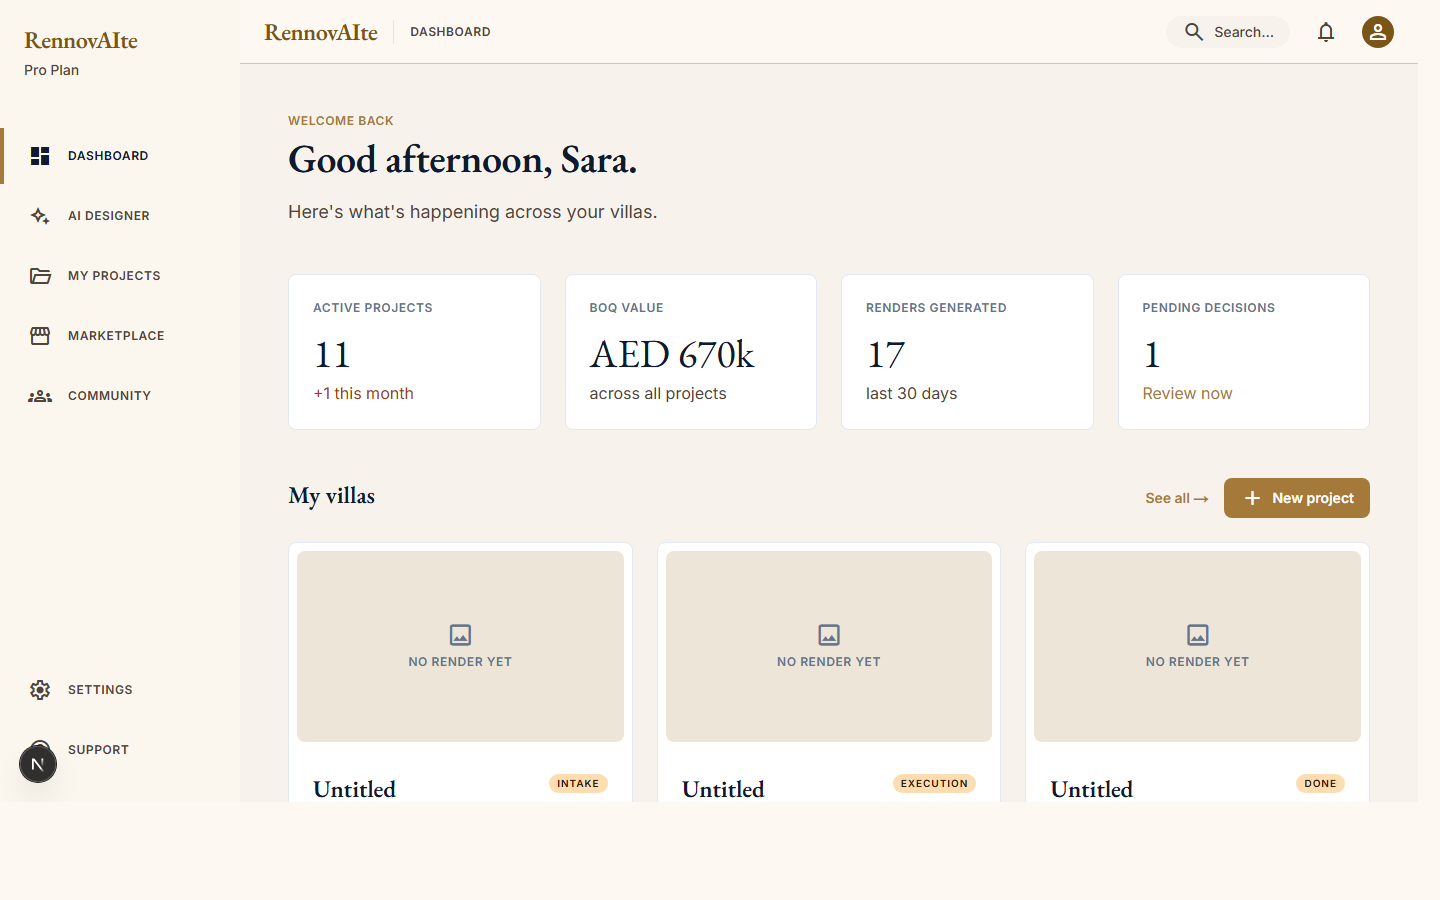
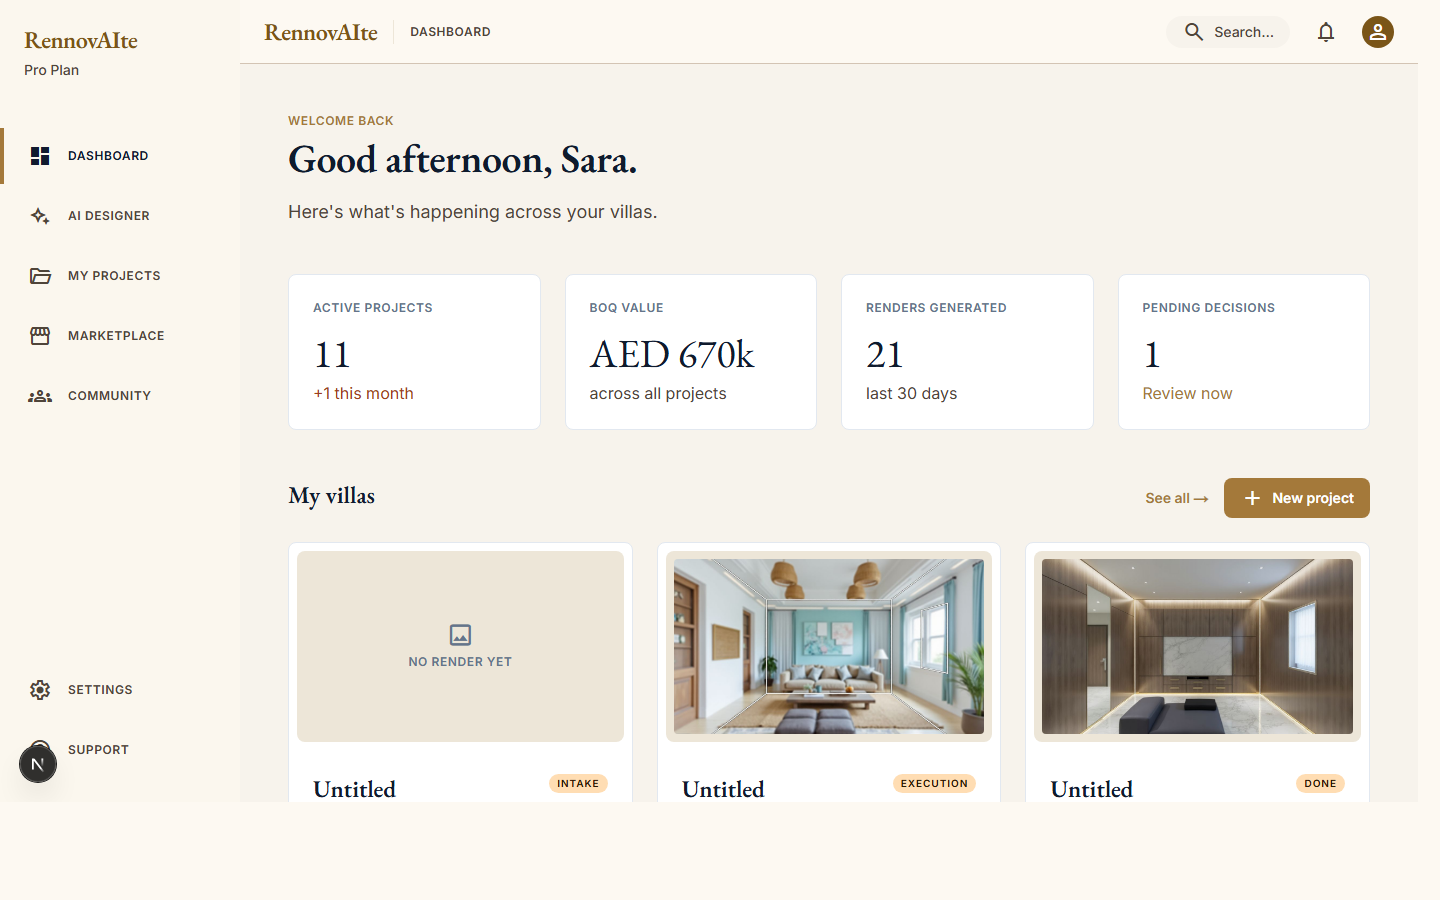
feat: backfill script for re-hosting hero renders + force-render flag
Adds scripts/backfill-renders.ts. For every project with a project-level
style pick + parsed plan + at least one renderable room, the script
triggers a fresh /api/render call so the new flow re-hosts the output
in Supabase Storage. Skips projects whose latest render is already on
Supabase Storage so it can be re-run safely.

Hero-room selection prefers living > majlis > dining > master_bedroom
> bedroom > bathroom > ensuite > powder, falling through to first valid
room. One render per project (these are dashboard / portfolio heroes,
not exhaustive).

To make the backfill possible, /api/render now accepts an optional
`force: true` body param that bypasses the prompt cache. Without it,
the cache lookup would return the existing dead Replicate URL and
never re-render.

Concurrency is pinned at 1 with a 12s inter-render pause and 429
retry-after handling — Replicate's reduced rate limit on accounts with
< $5 credit is 6 req/min with burst 1, so any concurrency > 1 hits
429 immediately.

Usage:
  pnpm tsx scripts/backfill-renders.ts            # dry run
  pnpm tsx scripts/backfill-renders.ts --run      # execute
  pnpm tsx scripts/backfill-renders.ts --run --limit 2

Ran the backfill against the dev DB — all 4 projects with a style
pick now have Supabase-Storage-hosted hero renders. /my-projects shows
three of the new renders (a warm wood-paneled lounge, a sea-glass
coastal interior, a luxe-minimal living room) in their villa cards;
[…]

Changed region(s): [[0.7188, 0.6222, 0.9375, 0.84], [0.4688, 0.6222, 0.6875, 0.84], [0.5938, 0.3733, 0.625, 0.4044]]

diff --git a/scripts/backfill-renders.ts b/scripts/backfill-renders.ts
@@ -1,0 +1,328 @@
+// Backfill script — repopulates hero renders for projects whose stored
+// `renders.image_url` is a dead Replicate presigned URL. For each project
+// that has a project-level style pick and at least one renderable room, it
+// triggers a fresh /api/render call (with `force: true` so the prompt cache
+// is bypassed). The API route re-hosts the output in Supabase Storage, so
+// the new row gets a permanent public URL.
+//
+// Usage:
+//   pnpm tsx scripts/backfill-renders.ts            # dry run, prints plan
+//   pnpm tsx scripts/backfill-renders.ts --run      # actually triggers renders
+//   pnpm tsx scripts/backfill-renders.ts --run --limit 2
+//
+// Requires the Next dev server to be running locally (the script POSTs to
+// http://localhost:3091/api/render by default — override with API_BASE).
+//
+// Renders are fired with a small concurrency limit so we don't overwhelm
+// the dev server or Replicate.
+
+import { readFile } from "node:fs/promises";
+
+import { supabaseAdmin } from "../lib/supabase-admin";
+
+const ENV_PATH = "C:/dev/rennovaite/.env.local";
+const API_BASE = process.env.API_BASE ?? "http://localhost:3091";
+// Replicate's free-tier rate limit is "6 req/min with burst 1" when account
+// credit is below $5. We run serially with a short pause between calls so
+// the bursts never collide. The script also handles 429 retry-after, so even
+// if you bump CONCURRENCY back up it should self-throttle.
+const CONCURRENCY = 1;
+const INTER_RENDER_PAUSE_MS = 12_000;
+const PER_RENDER_TIMEOUT_MS = 180_000;
+const MAX_RETRIES_ON_429 = 3;
+
+// Hero-room preference order — pick the largest "living" if one exists,
+// fall through to bedrooms/bathrooms so every candidate project at least
+// gets *some* hero image. Mirrors the renderable set in lib/render-prompts.ts.
+const HERO_ROOM_ORDER = [
+  "living",
+  "majlis",
+  "dining",
+  "master_bedroom",
+  "bedroom",
+  "bathroom",
+  "ensuite",
+  "powder",
+];
+const RENDERABLE = new Set(HERO_ROOM_ORDER);
+
+type Candidate = {
+  project_id: string;
+  project_name: string;
+  room_id: string;
+  room_type: string;
+  area_m2: number | null;
+  style_key: string;
+};
+
+async function loadEnvLocal(): Promise<void> {
+  let raw: string;
+  try {
+    raw = await readFile(ENV_PATH, "utf8");
+  } catch {
+    return;
+  }
+  for (const line of raw.split(/\r?\n/)) {
+    const trimmed = line.trim();
+    if (!trimmed || trimmed.startsWith("#")) continue;
+    const eq = trimmed.indexOf("=");
+    if (eq === -1) continue;
+    const key = trimmed.slice(0, eq).trim();
+    let value = trimmed.slice(eq + 1).trim();
+    if (
+      (value.startsWith('"') && value.endsWith('"')) ||
+      (value.startsWith("'") && value.endsWith("'"))
+    ) {
+      value = value.slice(1, -1);
+    }
+    if (!(key in process.env)) process.env[key] = value;
+  }
+}
+
+async function findCandidates(): Promise<Candidate[]> {
+  const sb = supabaseAdmin;
+
+  const { data: projects, error: projErr } = await sb
+    .from("projects")
+    .select("id, name")
+    .order("created_at", { ascending: false });
+  if (projErr) throw projErr;
+  if (!projects) return [];
+
+  const { data: styles, error: styleErr } = await sb
+    .from("style_choices")
+    .select("project_id, room_id, style_key, created_at")
+    .is("room_id", null)
+    .order("created_at", { ascending: false });
+  if (styleErr) throw styleErr;
+  const styleByProject = new Map<string, string>();
+  for (const s of styles ?? []) {
+    if (s.project_id && s.style_key && !styleByProject.has(s.project_id)) {
+      styleByProject.set(s.project_id, s.style_key);
+    }
+  }
+
+  // Skip projects whose latest render is ALREADY a Supabase Storage URL —
+  // those got re-hosted by a previous backfill run.
+  const { data: existingRenders } = await sb
+    .from("renders")
+    .select("project_id, image_url, created_at")
+    .order("created_at", { ascending: false });
+  const latestRenderByProject = new Map<string, string | null>();
+  for (const r of existingRenders ?? []) {
+    if (!r.project_id) continue;
+    if (!latestRenderByProject.has(r.project_id)) {
+      latestRenderByProject.set(r.project_id, r.image_url ?? null);
+    }
+  }
+
+  const out: Candidate[] = [];
+  for (const p of projects) {
+    const styleKey = styleByProject.get(p.id);
+    if (!styleKey) continue;
+
+    // Already has a stable Supabase URL — skip.
+    const latest = latestRenderByProject.get(p.id) ?? null;
+    if (latest && !latest.includes("replicate.delivery")) {
+      console.log(
+        `[backfill] skip ${p.id.slice(0, 8)} — already on Supabase Storage`,
+      );
+      continue;
+    }
+
+    const { data: plan } = await sb
+      .from("plans")
+      .select("id")
+      .eq("project_id", p.id)
+      .order("created_at", { ascending: false })
+      .limit(1)
+      .maybeSingle();
+    if (!plan) continue;
+
+    const { data: rooms } = await sb
+      .from("rooms")
+      .select("id, room_type, area_m2")
+      .eq("plan_id", plan.id);
+    if (!rooms?.length) continue;
+
+    const valid = rooms.filter(
+      (r) => r.room_type && RENDERABLE.has(r.room_type),
+    );
+    if (!valid.length) continue;
+
+    let hero: (typeof valid)[number] | null = null;
+    for (const rt of HERO_ROOM_ORDER) {
+      const match = valid
+        .filter((r) => r.room_type === rt)
+        .sort((a, b) => (b.area_m2 ?? 0) - (a.area_m2 ?? 0));
+      if (match[0]) {
+        hero = match[0]!;
+        break;
+      }
+    }
+    if (!hero) hero = valid[0]!;
+
+    out.push({
+      project_id: p.id,
+      project_name: p.name?.trim() || "Untitled",
+      room_id: hero.id,
+      room_type: hero.room_type!,
+      area_m2: hero.area_m2,
+      style_key: styleKey,
+    });
+  }
+  return out;
+}
+
+async function triggerRender(
+  candidate: Candidate,
+): Promise<{ ok: boolean; ms: number; image_url?: string; error?: string }> {
+  const t0 = Date.now();
+  for (let attempt = 0; attempt <= MAX_RETRIES_ON_429; attempt++) {
+    const controller = new AbortController();
+    const timeout = setTimeout(
+      () => controller.abort(),
+      PER_RENDER_TIMEOUT_MS,
+    );
+    try {
+      const res = await fetch(`${API_BASE}/api/render`, {
+        method: "POST",
+        headers: { "Content-Type": "application/json" },
+        body: JSON.stringify({
+          project_id: candidate.project_id,
+          room_id: candidate.room_id,
+          force: true,
+        }),
+        signal: controller.signal,
+      });
+      const body = (await res.json().catch(() => null)) as
+        | { image_url?: string; error?: string }
+        | null;
+      if (res.ok && body?.image_url) {
+        return { ok: true, ms: Date.now() - t0, image_url: body.image_url };
+      }
+      const errMsg = body?.error ?? `HTTP ${res.status}`;
+      // Replicate 429 surfaces as a 502 from our route with the original
+      // message embedded. Extract retry_after if present.
+      const m = errMsg.match(/retry_after"?:\s*(\d+)/);
+      const retryAfterSec = m ? Number(m[1]!) : null;
+      const is429 = errMsg.includes("429") || errMsg.includes("throttled");
+      if (is429 && attempt < MAX_RETRIES_ON_429) {
+        const wait = (retryAfterSec ?? 10) + 2;
+        console.log(
+          `[backfill]   ⟳ rate-limited; waiting ${wait}s before retry ${attempt + 1}/${MAX_RETRIES_ON_429}`,
+        );
+        await sleep(wait * 1000);
+        continue;
+      }
+      return { ok: false, ms: Date.now() - t0, error: errMsg };
+    } catch (err) {
+      return {
+        ok: false,
+        ms: Date.now() - t0,
+        error: err instanceof Error ? err.message : String(err),
+      };
+    } finally {
+      clearTimeout(timeout);
+    }
+  }
+  return { ok: false, ms: Date.now() - t0, error: "exhausted retries" };
+}
+
+function sleep(ms: number): Promise<void> {
+  return new Promise((res) => setTimeout(res, ms));
+}
+
+async function runWithConcurrency<T, U>(
+  items: T[],
+  limit: number,
+  work: (item: T, i: number) => Promise<U>,
+): Promise<U[]> {
+  const out: U[] = new Array(items.length);
+  let next = 0;
+  async function worker() {
+    while (next < items.length) {
+      const i = next++;
+      out[i] = await work(items[i]!, i);
+    }
+  }
+  const workers = Array.from({ length: Math.min(limit, items.length) }, () =>
+    worker(),
+  );
+  await Promise.all(workers);
+  return out;
+}
+
+async function main(): Promise<void> {
+  await loadEnvLocal();
+
+  const args = process.argv.slice(2);
+  const run = args.includes("--run");
+  const limitIdx = args.indexOf("--limit");
+  const limit =
+    limitIdx >= 0 ? Math.max(1, Number(args[limitIdx + 1] ?? 0)) : Infinity;
+
+  console.log(`[backfill] API_BASE=${API_BASE}`);
+
+  const all = await findCandidates();
+  const candidates = Number.isFinite(limit) ? all.slice(0, limit) : all;
+
+  console.log(
+    `[backfill] ${all.length} candidate project(s) with style+plan+room.`,
+  );
+  for (const [i, c] of candidates.entries()) {
+    console.log(
+      `  ${i + 1}. ${c.project_id.slice(0, 8)}… "${c.project_name}" — ${c.style_key} / ${c.room_type} (${c.area_m2 ?? "?"} m²)`,
+    );
+  }
+  if (!run) {
+    console.log(
+      `[backfill] dry run — re-invoke with --run to trigger ${candidates.length} render(s).`,
+    );
+    return;
+  }
+  if (candidates.length === 0) {
+    console.log(`[backfill] nothing to do.`);
+    return;
+  }
+
+  console.log(
+    `[backfill] running ${candidates.length} render(s) with concurrency ${CONCURRENCY}…`,
+  );
+  const startedAt = Date.now();
+  const results = await runWithConcurrency(
+    candidates,
+    CONCURRENCY,
+    async (c, i) => {
+      // Stagger so back-to-back requests stay under Replicate's
+      // "burst 1 / 6 per minute" reduced rate limit.
+      if (i > 0 && CONCURRENCY === 1) await sleep(INTER_RENDER_PAUSE_MS);
+      console.log(
+        `[backfill]   → ${i + 1}/${candidates.length} ${c.project_id.slice(0, 8)} ${c.room_type}`,
+      );
+      const r = await triggerRender(c);
+      if (r.ok) {
+        console.log(
+          `[backfill]   ✓ ${i + 1}/${candidates.length} ${c.project_id.slice(0, 8)} in ${(r.ms / 1000).toFixed(1)}s → ${r.image_url}`,
+        );
+      } else {
+        console.log(
+          `[backfill]   ✗ ${i + 1}/${candidates.length} ${c.project_id.slice(0, 8)} after ${(r.ms / 1000).toFixed(1)}s: ${r.error}`,
+        );
+      }
+      return r;
+    },
+  );
+
+  const ok = results.filter((r) => r.ok).length;
+  const failed = results.filter((r) => !r.ok).length;
+  console.log(
+    `[backfill] done in ${((Date.now() - startedAt) / 1000).toFixed(1)}s — ${ok} succeeded, ${failed} failed.`,
+  );
+  if (failed > 0) process.exitCode = 1;
+}
+
+main().catch((err) => {
+  console.error("[backfill] fatal", err);
+  process.exit(1);
+});

diff --git a/app/api/render/route.ts b/app/api/render/route.ts
@@ -41,6 +41,10 @@ const BodySchema = z.object({
   tweak: z.string().min(1).max(500).optional(),
   // Default to canny. Send `"depth"` to A/B against flux-depth-pro.
   mode: z.enum(["canny", "depth"]).optional().default("canny"),
+  // Bypass the prompt cache and force a fresh Replicate call. Used by the
+  // backfill script to re-hydrate rows that still point at dead presigned
+  // URLs.
+  force: z.boolean().optional().default(false),
 });
 
 const VALID_STYLE_KEYS = new Set<string>(STYLE_KEYS);
@@ -121,7 +125,7 @@ export async function POST(request: NextRequest) {
         { status: 400 },
       );
     }
-    const { project_id, room_id, tweak, mode } = parsed.data;
+    const { project_id, room_id, tweak, mode, force } = parsed.data;
 
     const apiKey = process.env.REPLICATE_API_TOKEN;
     if (!apiKey) {
@@ -213,23 +217,27 @@ export async function POST(request: NextRequest) {
     // Cache check: if a render with this exact prompt for this room already
     // exists, return it instead of paying Replicate again. This handles the
     // case where the user navigates back to a room they already rendered.
-    const { data: existing } = await supabase
-      .from("renders")
-      .select("id, image_url, prompt")
-      .eq("room_id", room_id)
-      .eq("prompt", prompt)
-      .order("created_at", { ascending: false })
-      .limit(1)
-      .maybeSingle();
+    // Skipped when `force` is set (used by the backfill flow to overwrite
+    // dead presigned URLs).
+    if (!force) {
+      const { data: existing } = await supabase
+        .from("renders")
+        .select("id, image_url, prompt")
+        .eq("room_id", room_id)
+        .eq("prompt", prompt)
+        .order("created_at", { ascending: false })
+        .limit(1)
+        .maybeSingle();
 
-    if (existing && existing.image_url && existing.prompt) {
-      return NextResponse.json({
-        render_id: existing.id,
-        image_url: existing.image_url,
-        prompt: existing.prompt,
-        mode,
-        cached: true,
-      });
+      if (existing && existing.image_url && existing.prompt) {
+        return NextResponse.json({
+          render_id: existing.id,
+          image_url: existing.image_url,
+          prompt: existing.prompt,
+          mode,
+          cached: true,
+        });
+      }
     }
 
     const replicate = new Replicate({ auth: apiKey });
